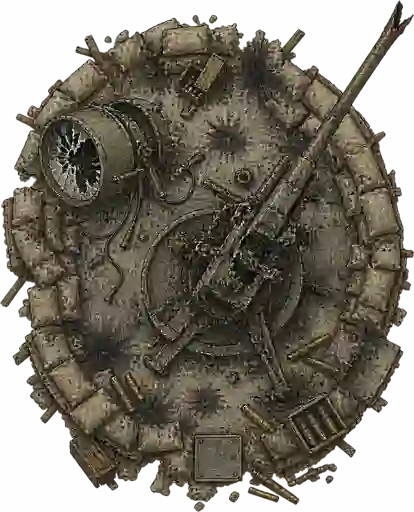
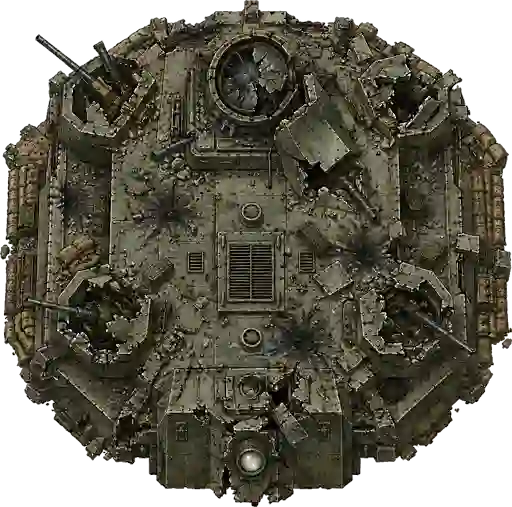
London searchlight boss: armored octagonal tower redesign

diff --git a/stageboss-view.js b/stageboss-view.js
@@ -33,7 +33,7 @@ const bossSources={
  londonApron:'./boss-london-apron115.webp',drachenNet:'./boss-drachen-net115.webp',
  railCarrier:'./boss-art-rail-carrier.webp?v=340',treffasWagen:'./boss-art-treffas-wagen.webp?v=343',
  mark4:'./boss-mark4.webp?v=344',mark4Wreck:'./boss-mark4-wreck.webp?v=344',morser:'./boss-morser.webp?v=344',morserWreck:'./boss-morser-wreck.webp?v=344',
- staaken:'./staaken_dark.webp?v=346',staakenWreck:'./boss-staaken-wreck.webp?v=345',searchlight:'./boss-searchlight.webp?v=344',searchlightWreck:'./boss-searchlight-wreck.webp?v=344'
+ staaken:'./staaken_dark.webp?v=346',staakenWreck:'./boss-staaken-wreck.webp?v=345',searchlight:'./boss-searchlight.webp?v=347',searchlightWreck:'./boss-searchlight-wreck.webp?v=347'
 };
 const bossGroup=createLazyImageGroup(bossSources),bossArt=bossGroup.images;
 const rebuildGroup=createLazyImageGroup({a7vHull:'./boss-a7v-hull-rebuild.webp',a7vTurret:'./boss-a7v-turret-rebuild.webp',markvHull:'./boss-mark-v-hull-rebuild.webp',markvSponson:'./boss-mark-v-sponson-rebuild.webp'}),rebuildArt=rebuildGroup.images;
@@ -491,7 +491,7 @@ export function drawStageBoss(c,g,W,H,{drawZeppelin,drawFieldArt,layer='all'}){
    else if(b.assetKey==='london-searchlight'){
     const partById=id=>b.parts?.find?.(p=>p.id===id)||b.parts?.get?.(id);
     const im=b.destroying?(bossArt.searchlightWreck||bossArt.searchlight):bossArt.searchlight;
-    if(im?.naturalWidth){c.save();c.imageSmoothingEnabled=true;c.drawImage(im,-170,-175,340,350);c.restore();}
+    if(im?.naturalWidth){c.save();c.imageSmoothingEnabled=true;const wr=im.naturalHeight/im.naturalWidth,w=440,h=w*wr;c.drawImage(im,-w/2,-h/2,w,h);c.restore();}
     // Knocked-out positions get a wreck sprite + smoke over the composite art.
     if(!b.destroying)for(const id of ['light','gun','ammo']){const p=partById(id);if(!p?.destroyed)continue;
      const im=partWreckArt[id==='light'?'light':'gun'],r=p.radius||46;
